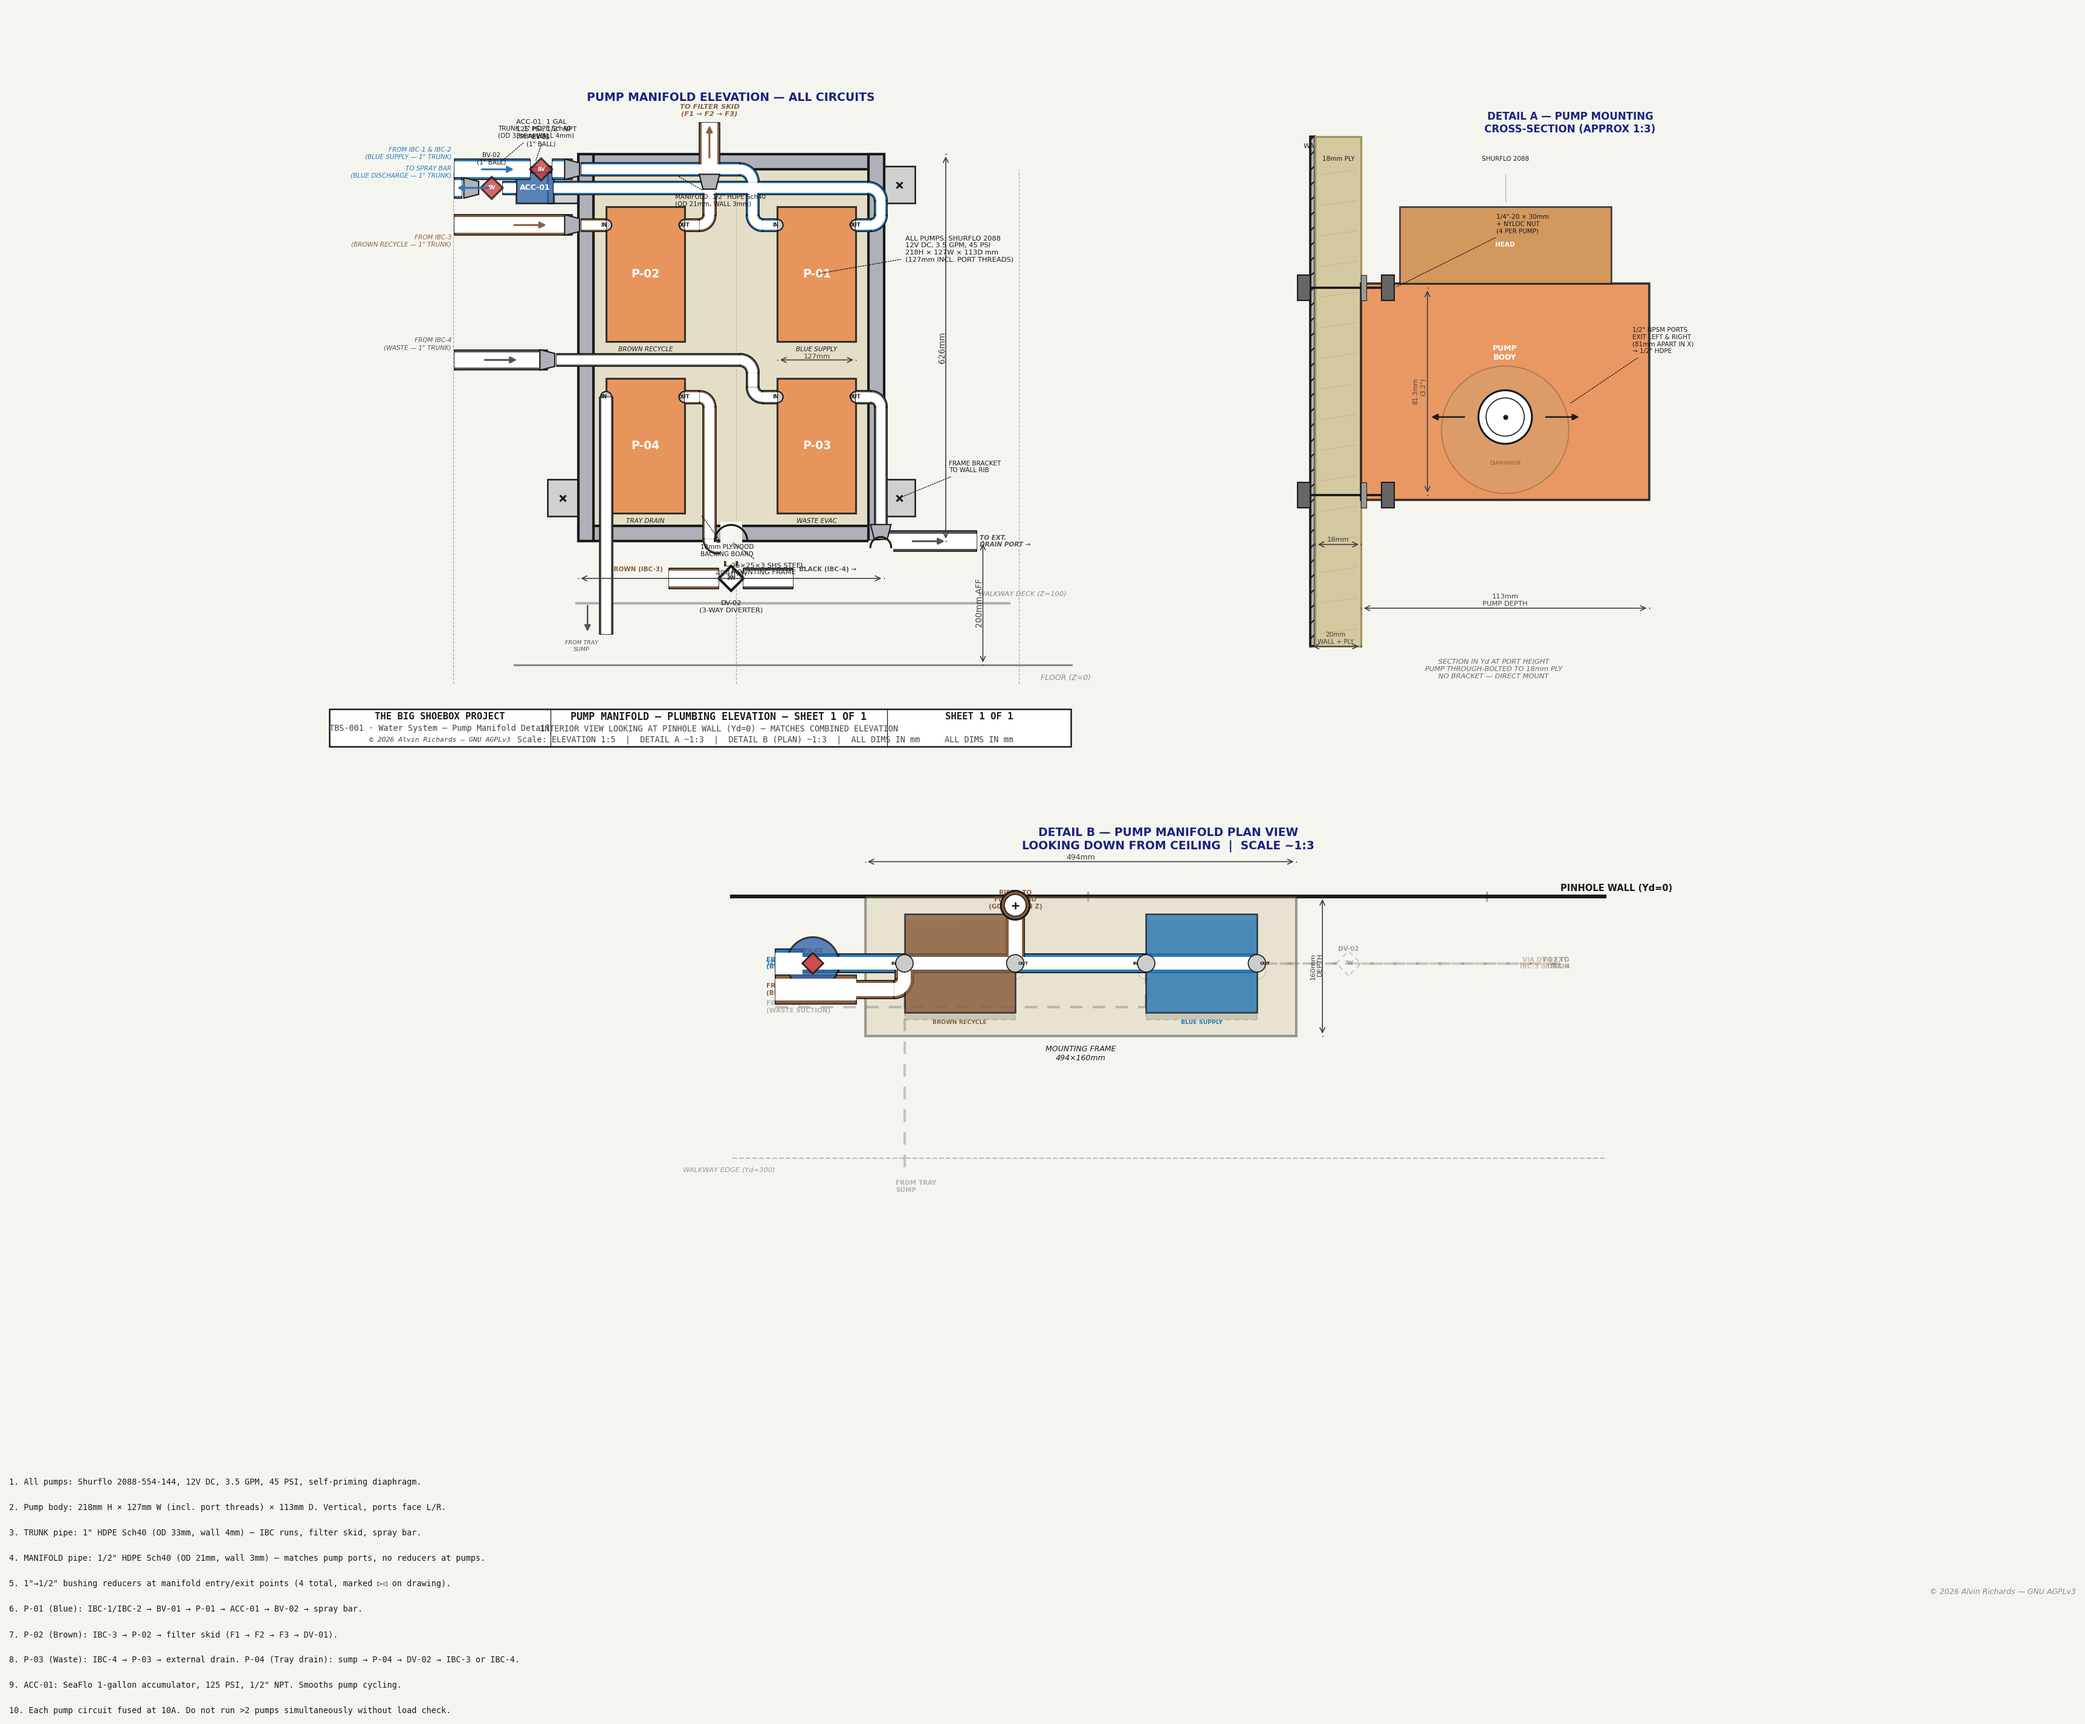
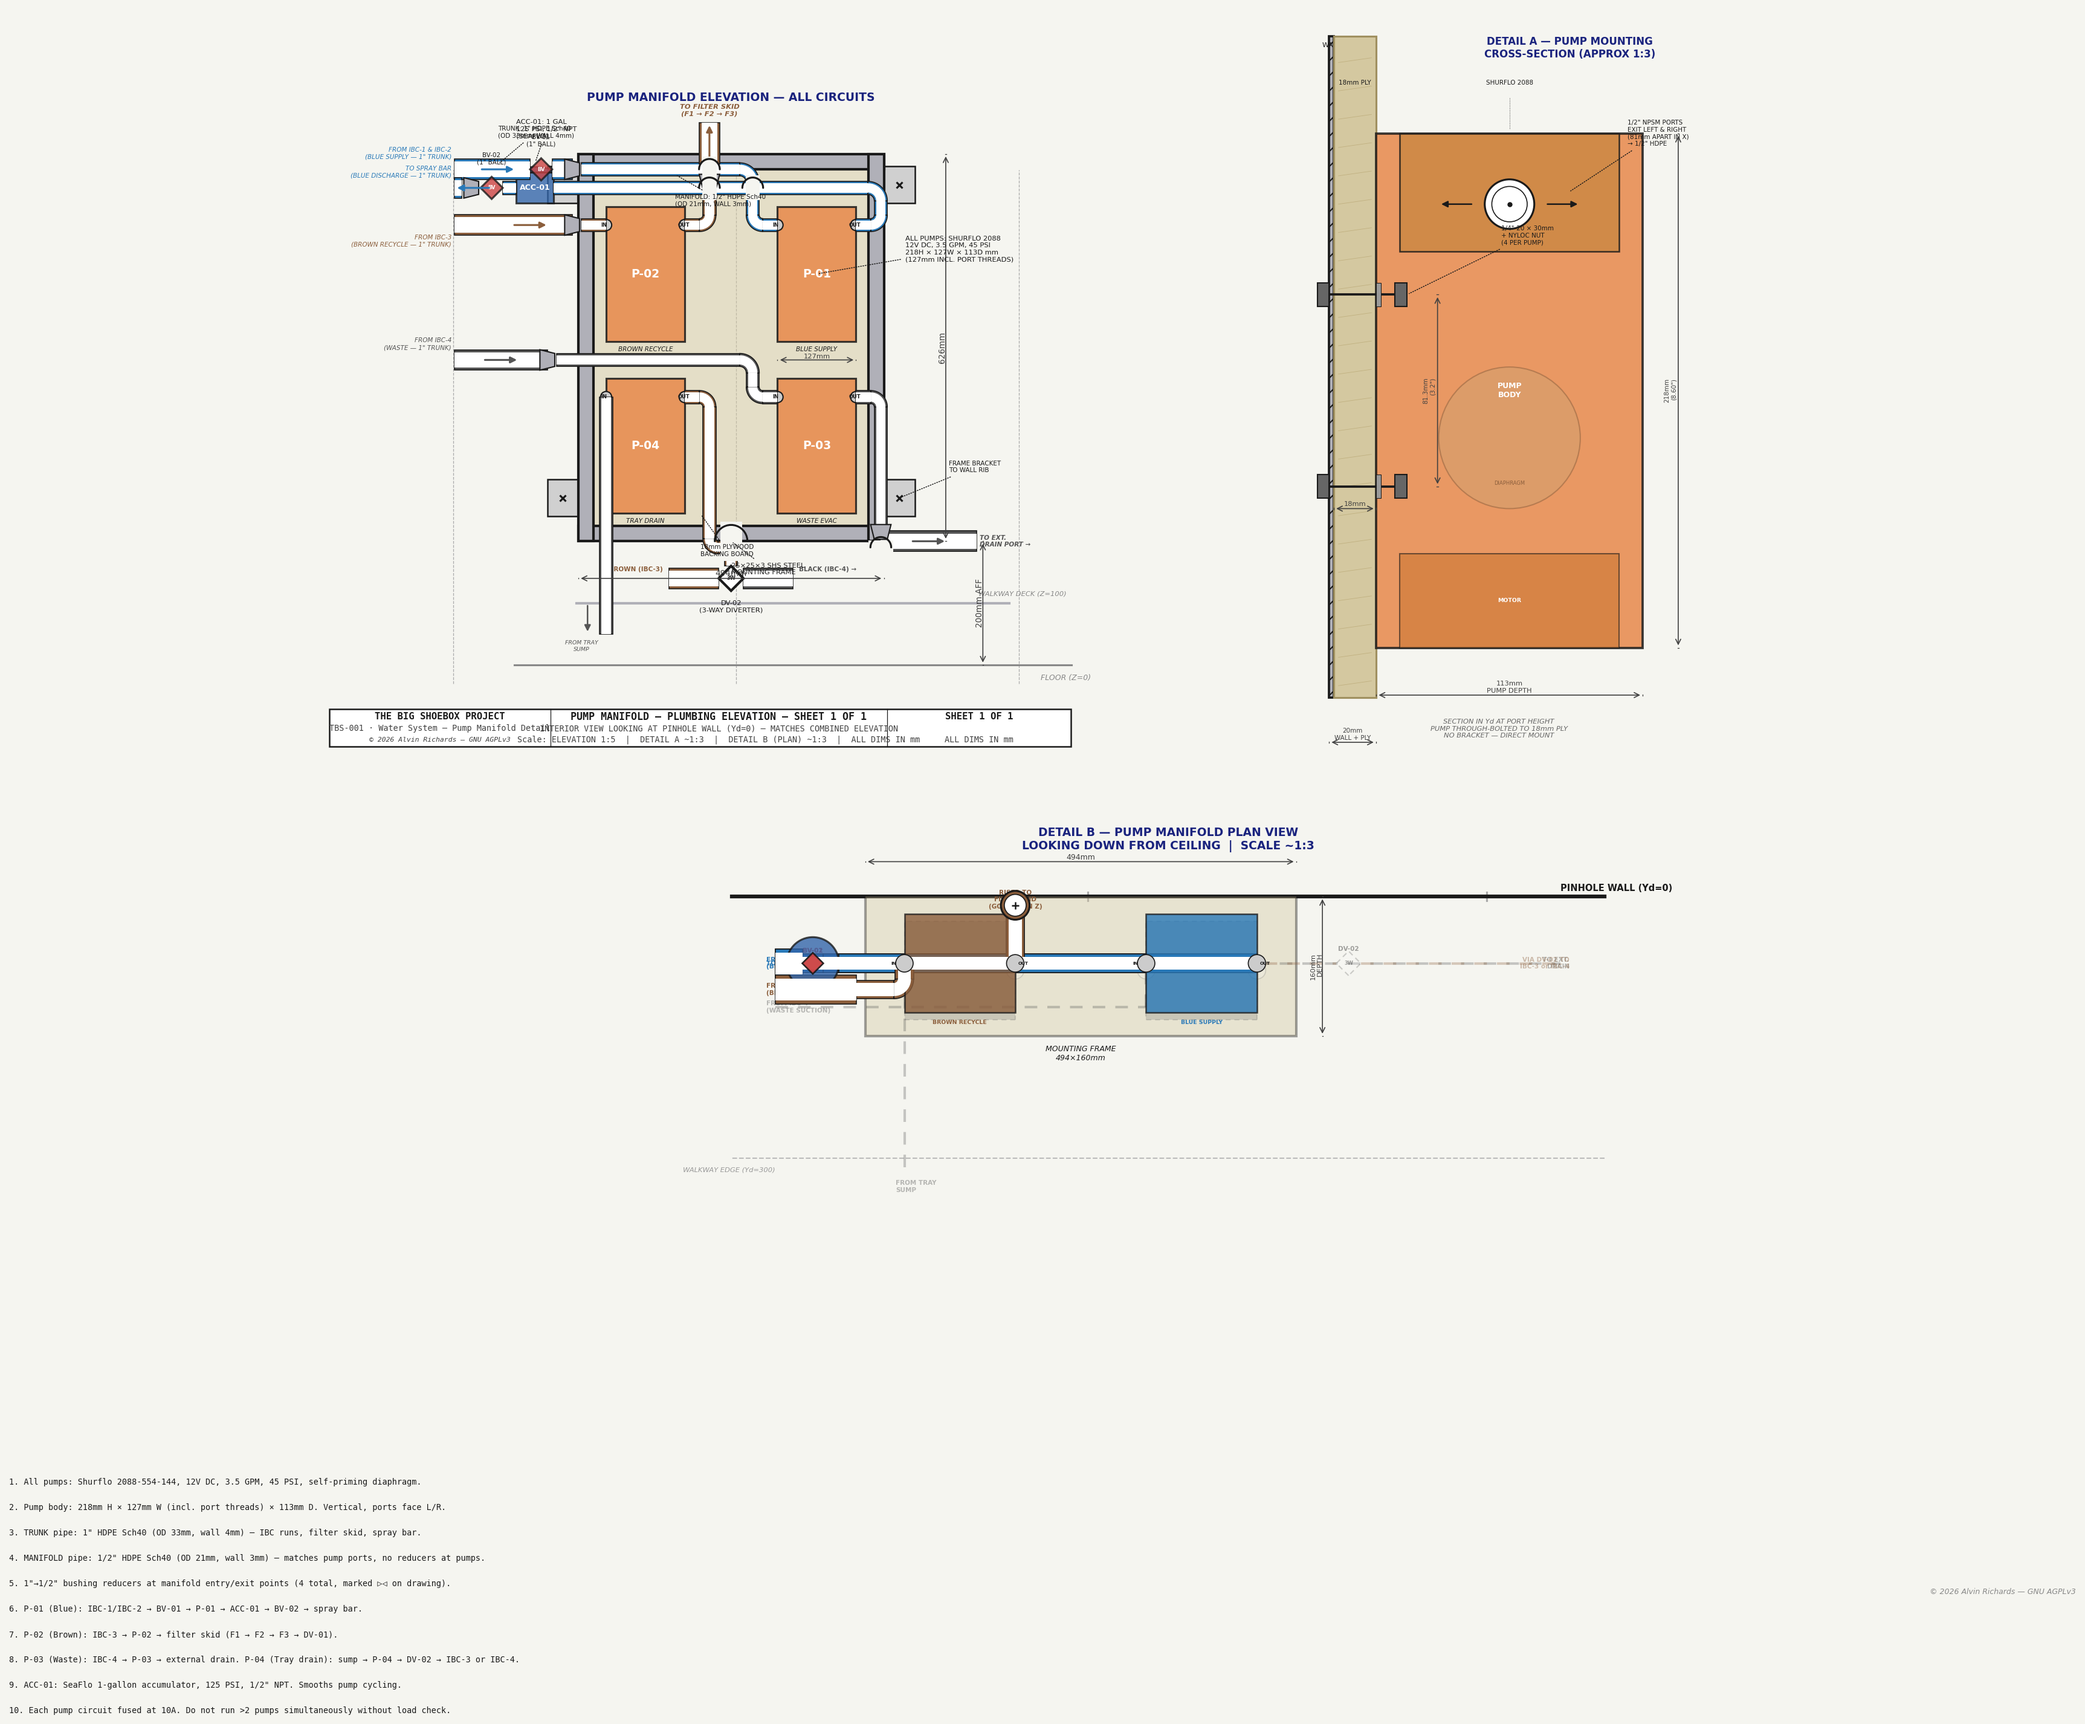
Add pipe crossing bridges at top headers, fix Detail A pump height
- Add bridge hops where Brown riser crosses Blue discharge header,
  Blue suction drop crosses Blue discharge header, and Brown 1" riser
  crosses Blue suction manifold — resolves ambiguity between joins
  and crossovers at the top of the elevation
- Fix Detail A: pump section height from 85mm to correct 218mm per
  Shurflo 2088 spec (8.60"). Show HEAD zone, MOTOR zone, diaphragm
  chamber, and full-height 218mm dimension

Changed region(s): [[0.6203, 0.0, 0.8064, 0.4369], [0.7133, 0.0, 0.7754, 0.0312]]

diff --git a/generate_pump_manifold_diagram.py b/generate_pump_manifold_diagram.py
@@ -685,16 +685,29 @@ place_label(ax, sx(DV02_X), sz(DV02_Z - 25), "DV-02\n(3-WAY DIVERTER)",
 
 
 # ── Pipe crossing bridges ──────────────────────────────────────────────────
-# P-04 tray drain discharge runs horizontally at TRAY_DISCH_Z and crosses
-# the P-03 waste discharge vertical riser at WASTE_RISER_X.
+# CONVENTION: semicircular hop at every point where one pipe crosses another
+# without connecting.  direction="h" for horiz pipe crossing vert,
+#                      direction="v" for vert pipe crossing horiz.
+
+# --- TOP AREA (headers above top-row pumps) ---
+# 1. Brown discharge riser (vertical) crosses Blue discharge header (horiz)
+draw_pipe_bridge(ax, BROWN_RISER_X, HEADER_Z_BLUE_DISCH, OD_H, direction="v")
+
+# 2. Blue suction drop (vertical) crosses Blue discharge header (horiz)
+draw_pipe_bridge(ax, p01_in_x + ELBOW_OFFSET, HEADER_Z_BLUE_DISCH, OD_H,
+                 direction="v")
+
+# 3. Brown discharge riser 1" (vertical) crosses Blue suction manifold (horiz)
+draw_pipe_bridge(ax, BROWN_RISER_X, HEADER_Z_BLUE_SUC, OD_H, direction="v")
+
+# --- BOTTOM AREA (below bottom-row pumps) ---
+# 4. P-04 tray drain discharge (horiz) crosses P-03 waste riser (vert)
 draw_pipe_bridge(ax, WASTE_RISER_X, TRAY_DISCH_Z, OD_H, direction="h")
 
-# P-04 tray drain vertical drop to DV-02 crosses the waste 1" discharge
-# trunk running horizontally at WASTE_DISCH_Z - 15.
+# 5. P-04 tray drain vertical drop to DV-02 crosses waste 1" discharge trunk
 draw_pipe_bridge(ax, DV02_X, WASTE_DISCH_Z - 15, OD_1, direction="v")
 
-# The P-04 suction riser (vertical) may cross the waste discharge trunk
-# if p04_in_x is in range — check and add bridge.
+# 6. P-04 suction riser (vertical) may cross waste discharge trunk
 if PIPE_ENTRY_X < p04_in_x < WASTE_RISER_X:
     draw_pipe_bridge(ax, p04_in_x, WASTE_DISCH_Z - 15, OD_1, direction="v")
 
@@ -847,12 +860,12 @@ def sa_y(yd_mm):
 def sa_z(z_mm):
     return OAZ + z_mm / SC_A
 
-# Detail limits
+# Detail limits — taller to show full 218mm pump height
 ax2.set_xlim(sa_y(-25) - 0.5, sa_y(220) + 0.5)
-ax2.set_ylim(sa_z(-100) - 0.5, sa_z(130) + 0.5)
+ax2.set_ylim(sa_z(-150) - 0.5, sa_z(160) + 0.5)
 
 # Detail title
-ax2.text(sa_y(100), sa_z(120), "DETAIL A — PUMP MOUNTING\nCROSS-SECTION (APPROX 1:3)",
+ax2.text(sa_y(100), sa_z(150), "DETAIL A — PUMP MOUNTING\nCROSS-SECTION (APPROX 1:3)",
          ha="center", va="top", fontsize=8, fontweight="bold",
          color="#1A237E", zorder=10)
 
@@ -860,20 +873,20 @@ ax2.text(sa_y(100), sa_z(120), "DETAIL A — PUMP MOUNTING\nCROSS-SECTION (APPRO
 
 # ── 1. Container corrugated wall (section fill) ─────────────────────────────
 WALL_T = 2.0
-ax2.add_patch(plt.Rectangle((sa_y(-WALL_T), sa_z(-90)),
-              WALL_T / SC_A, 200 / SC_A,
+ax2.add_patch(plt.Rectangle((sa_y(-WALL_T), sa_z(-130)),
+              WALL_T / SC_A, 280 / SC_A,
               fc=C_STEEL_FILL, ec=C_FRAME, lw=1.8, zorder=3, hatch="//"))
-ax2.text(sa_y(-WALL_T / 2), sa_z(105), "WALL", ha="center", va="bottom",
+ax2.text(sa_y(-WALL_T / 2), sa_z(145), "WALL", ha="center", va="bottom",
          fontsize=5.5, color=C_FRAME)
 
 # ── 2. Plywood backing board (18mm) ─────────────────────────────────────────
 PLY_YD_START = 0
 PLY_THICK = 18
-ax2.add_patch(plt.Rectangle((sa_y(PLY_YD_START), sa_z(-90)),
-              PLY_THICK / SC_A, 200 / SC_A,
+ax2.add_patch(plt.Rectangle((sa_y(PLY_YD_START), sa_z(-130)),
+              PLY_THICK / SC_A, 280 / SC_A,
               fc=C_PLY, ec="#A09060", lw=1.5, zorder=3))
 # Wood grain
-for gz in range(-85, 100, 12):
+for gz in range(-125, 140, 12):
     ax2.plot([sa_y(PLY_YD_START + 2), sa_y(PLY_YD_START + PLY_THICK - 2)],
              [sa_z(gz), sa_z(gz + 2)],
              color="#C0B080", lw=0.4, zorder=3.5)
@@ -888,36 +901,49 @@ draw_dim_h(ax2, sa_y(PLY_YD_START), sa_y(PLY_YD_START + PLY_THICK),
 # nyloc nuts on wall side.
 PUMP_YD = PLY_YD_START + PLY_THICK   # pump base face flush against ply
 PUMP_DEPTH = 113   # 4.45" depth in Yd (from datasheet)
-PUMP_SEC_H = 85    # visible height in section (head zone)
+PUMP_SEC_H = 218   # FULL pump height in section (218mm = 8.60" per spec)
 BOLT_COL_SPACING = 81.3  # 3.2" between bolt columns (vertical Z)
 
-# Pump body rectangle
-ax2.add_patch(plt.Rectangle((sa_y(PUMP_YD), sa_z(-PUMP_SEC_H / 2 + 10)),
+# Pump body Z range — centered on Z=0 (port height reference)
+PUMP_SEC_Z_BOT = -PUMP_SEC_H / 2   # -109mm
+PUMP_SEC_Z_TOP = PUMP_SEC_H / 2    # +109mm
+
+# Pump body rectangle (full 218mm height × 113mm depth)
+ax2.add_patch(plt.Rectangle((sa_y(PUMP_YD), sa_z(PUMP_SEC_Z_BOT)),
               PUMP_DEPTH / SC_A, PUMP_SEC_H / SC_A,
               fc=C_PUMP_BODY, ec=C_FRAME, lw=1.8, alpha=0.85, zorder=5))
 
-ax2.text(sa_y(PUMP_YD + PUMP_DEPTH / 2), sa_z(25),
+ax2.text(sa_y(PUMP_YD + PUMP_DEPTH / 2), sa_z(0),
          "PUMP\nBODY", ha="center", va="center",
          fontsize=6, color="white", fontweight="bold", zorder=6)
 
-# Diaphragm chamber indication (internal circle)
+# Diaphragm chamber indication (internal circle, centered on pump)
 chamber_cx = PUMP_YD + PUMP_DEPTH / 2
-chamber_cz = -5
-chamber_r = 25
+chamber_cz = -20
+chamber_r = 30
 ax2.add_patch(plt.Circle((sa_y(chamber_cx), sa_z(chamber_cz)), chamber_r / SC_A,
               fc="#D0A070", ec="#8B5E3C", lw=1.0, alpha=0.5, zorder=5.5))
-ax2.text(sa_y(chamber_cx), sa_z(chamber_cz - 12), "DIAPHRAGM",
+ax2.text(sa_y(chamber_cx), sa_z(chamber_cz - 18), "DIAPHRAGM",
          ha="center", va="top", fontsize=4, color="#8B5E3C", zorder=6)
 
-# Head/motor indication (top of vertical pump — head near ply, motor outward)
-motor_z_bot = -PUMP_SEC_H / 2 + 10 + PUMP_SEC_H
-motor_h = 30
-ax2.add_patch(plt.Rectangle((sa_y(PUMP_YD + 15), sa_z(motor_z_bot)),
-              (PUMP_DEPTH - 30) / SC_A, motor_h / SC_A,
+# Head zone (top ~50mm of pump — ports exit from here)
+HEAD_ZONE_H = 50
+head_z_bot = PUMP_SEC_Z_TOP - HEAD_ZONE_H
+ax2.add_patch(plt.Rectangle((sa_y(PUMP_YD + 10), sa_z(head_z_bot)),
+              (PUMP_DEPTH - 20) / SC_A, HEAD_ZONE_H / SC_A,
               fc="#CC8844", ec=C_FRAME, lw=1.2, alpha=0.85, zorder=5))
-ax2.text(sa_y(PUMP_YD + PUMP_DEPTH / 2), sa_z(motor_z_bot + motor_h / 2),
+ax2.text(sa_y(PUMP_YD + PUMP_DEPTH / 2), sa_z(head_z_bot + HEAD_ZONE_H / 2),
          "HEAD", ha="center", va="center",
          fontsize=5, color="white", fontweight="bold", zorder=6)
+
+# Motor end indication (bottom ~40mm)
+MOTOR_ZONE_H = 40
+ax2.add_patch(plt.Rectangle((sa_y(PUMP_YD + 10), sa_z(PUMP_SEC_Z_BOT)),
+              (PUMP_DEPTH - 20) / SC_A, MOTOR_ZONE_H / SC_A,
+              fc="#CC7733", ec=C_FRAME, lw=1.0, alpha=0.6, zorder=5))
+ax2.text(sa_y(PUMP_YD + PUMP_DEPTH / 2), sa_z(PUMP_SEC_Z_BOT + MOTOR_ZONE_H / 2),
+         "MOTOR", ha="center", va="center",
+         fontsize=4.5, color="white", fontweight="bold", zorder=6)
 
 # ── 4. Through-bolts (4× 1/4"-20, two columns 3.2" apart) ──────────────────
 # Cross-section shows two bolts (one column); the other column is 81.3mm
@@ -929,7 +955,7 @@ BOLT_HEAD_H = 5        # hex head/nut height
 NUT_H = 5              # nyloc nut height
 
 # Two bolt Z positions (centered on pump body, 81.3mm apart)
-pump_center_z = (-PUMP_SEC_H / 2 + 10) + PUMP_SEC_H / 2
+pump_center_z = 0  # centered on port height reference
 bolt_z_upper = pump_center_z + BOLT_COL_SPACING / 2
 bolt_z_lower = pump_center_z - BOLT_COL_SPACING / 2
 
@@ -979,7 +1005,8 @@ leader(ax2, sa_y(bolt_head_yd + 5), sa_z(bolt_z_upper),
 # They appear as circles (cross-section through the port bore).
 PORT_OD_SEC = 21   # 1/2" pipe OD ~21mm
 PORT_WALL_SEC = 3
-PORT_Z_SEC = 0     # port center Z (relative to section center)
+# Ports are near the head (top of pump), 30mm below top edge
+PORT_Z_SEC = PUMP_SEC_Z_TOP - PORT_Z_OFFSET  # ~79mm above center
 
 # Port bore — shown as a circle with dashed line indicating it exits sideways
 port_bore_yd = PUMP_YD + PUMP_DEPTH / 2  # approximate center of head zone in Yd
@@ -1012,14 +1039,18 @@ leader(ax2, sa_y(port_bore_yd + 25), sa_z(PORT_Z_SEC + 5),
 # Ply thickness (already drawn above)
 # Pump depth
 draw_dim_h(ax2, sa_y(PUMP_YD), sa_y(PUMP_YD + PUMP_DEPTH),
-           sa_z(-75), f"{PUMP_DEPTH}mm\nPUMP DEPTH", offset=0.33, fs=5.5)
+           sa_z(PUMP_SEC_Z_BOT - 20), f"{PUMP_DEPTH}mm\nPUMP DEPTH", offset=0.33, fs=5.5)
 
 # Wall + ply total
 draw_dim_h(ax2, sa_y(-WALL_T), sa_y(PLY_YD_START + PLY_THICK),
-           sa_z(-90), f"{PLY_THICK + int(WALL_T)}mm\nWALL + PLY", offset=0.33, fs=5)
+           sa_z(PUMP_SEC_Z_BOT - 40), f"{PLY_THICK + int(WALL_T)}mm\nWALL + PLY", offset=0.33, fs=5)
+
+# Pump height dimension (full 218mm)
+draw_dim_v(ax2, sa_y(PUMP_YD + PUMP_DEPTH + 15), sa_z(PUMP_SEC_Z_BOT), sa_z(PUMP_SEC_Z_TOP),
+           f"{PUMP_SEC_H}mm\n(8.60\")", offset=0.33, fs=5)
 
 # ── Component labels along section ──────────────────────────────────────────
-label_z_a = 100
+label_z_a = PUMP_SEC_Z_TOP + 20
 label_items = [
     (PLY_YD_START + PLY_THICK / 2, "18mm PLY"),
     (PUMP_YD + PUMP_DEPTH / 2, "SHURFLO 2088"),
@@ -1027,11 +1058,11 @@ label_items = [
 for ly, ltxt in label_items:
     ax2.text(sa_y(ly), sa_z(label_z_a), ltxt, ha="center", va="bottom",
              fontsize=5, color=C_FRAME)
-    ax2.plot([sa_y(ly), sa_y(ly)], [sa_z(label_z_a - 5), sa_z(motor_z_bot + motor_h + 2)],
+    ax2.plot([sa_y(ly), sa_y(ly)], [sa_z(label_z_a - 5), sa_z(PUMP_SEC_Z_TOP + 2)],
              color=C_DIM, lw=0.5, ls=":", zorder=2)
 
 # Section cut indicator note
-ax2.text(sa_y(70), sa_z(-95),
+ax2.text(sa_y(70), sa_z(PUMP_SEC_Z_BOT - 30),
          "SECTION IN Yd AT PORT HEIGHT\nPUMP THROUGH-BOLTED TO 18mm PLY\nNO BRACKET — DIRECT MOUNT",
          ha="center", va="top", fontsize=5.5, color="#666666", style="italic")
 
